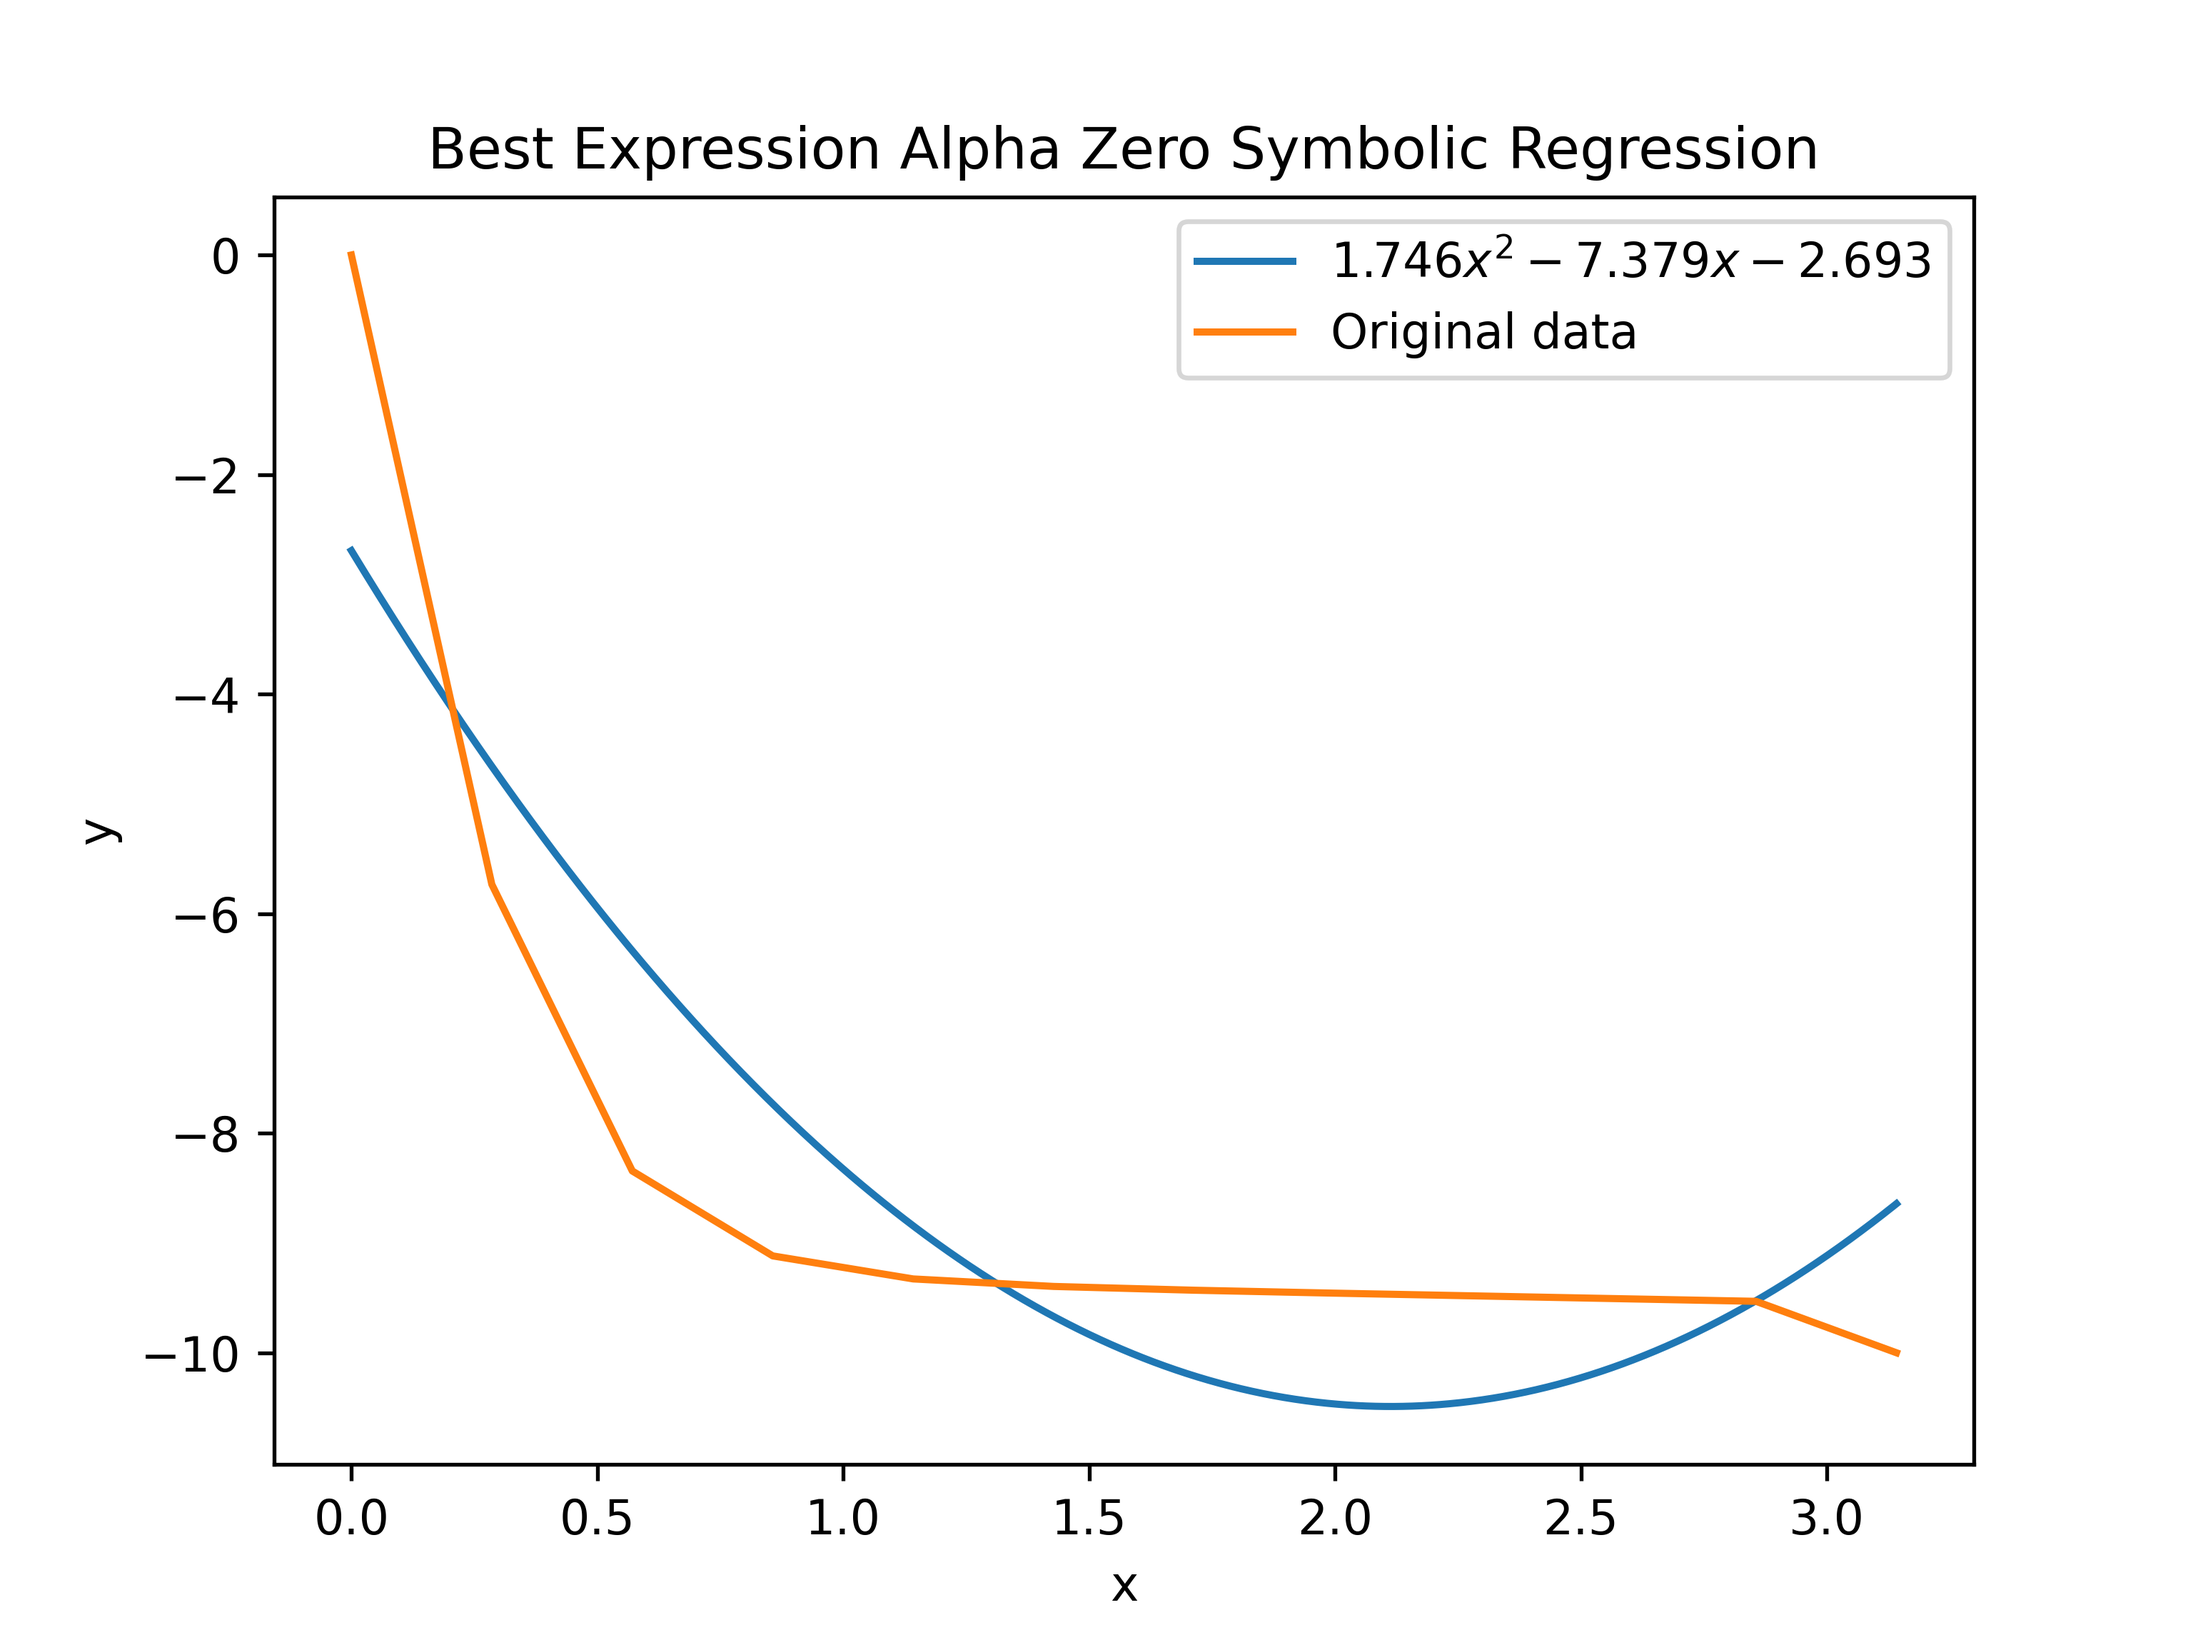
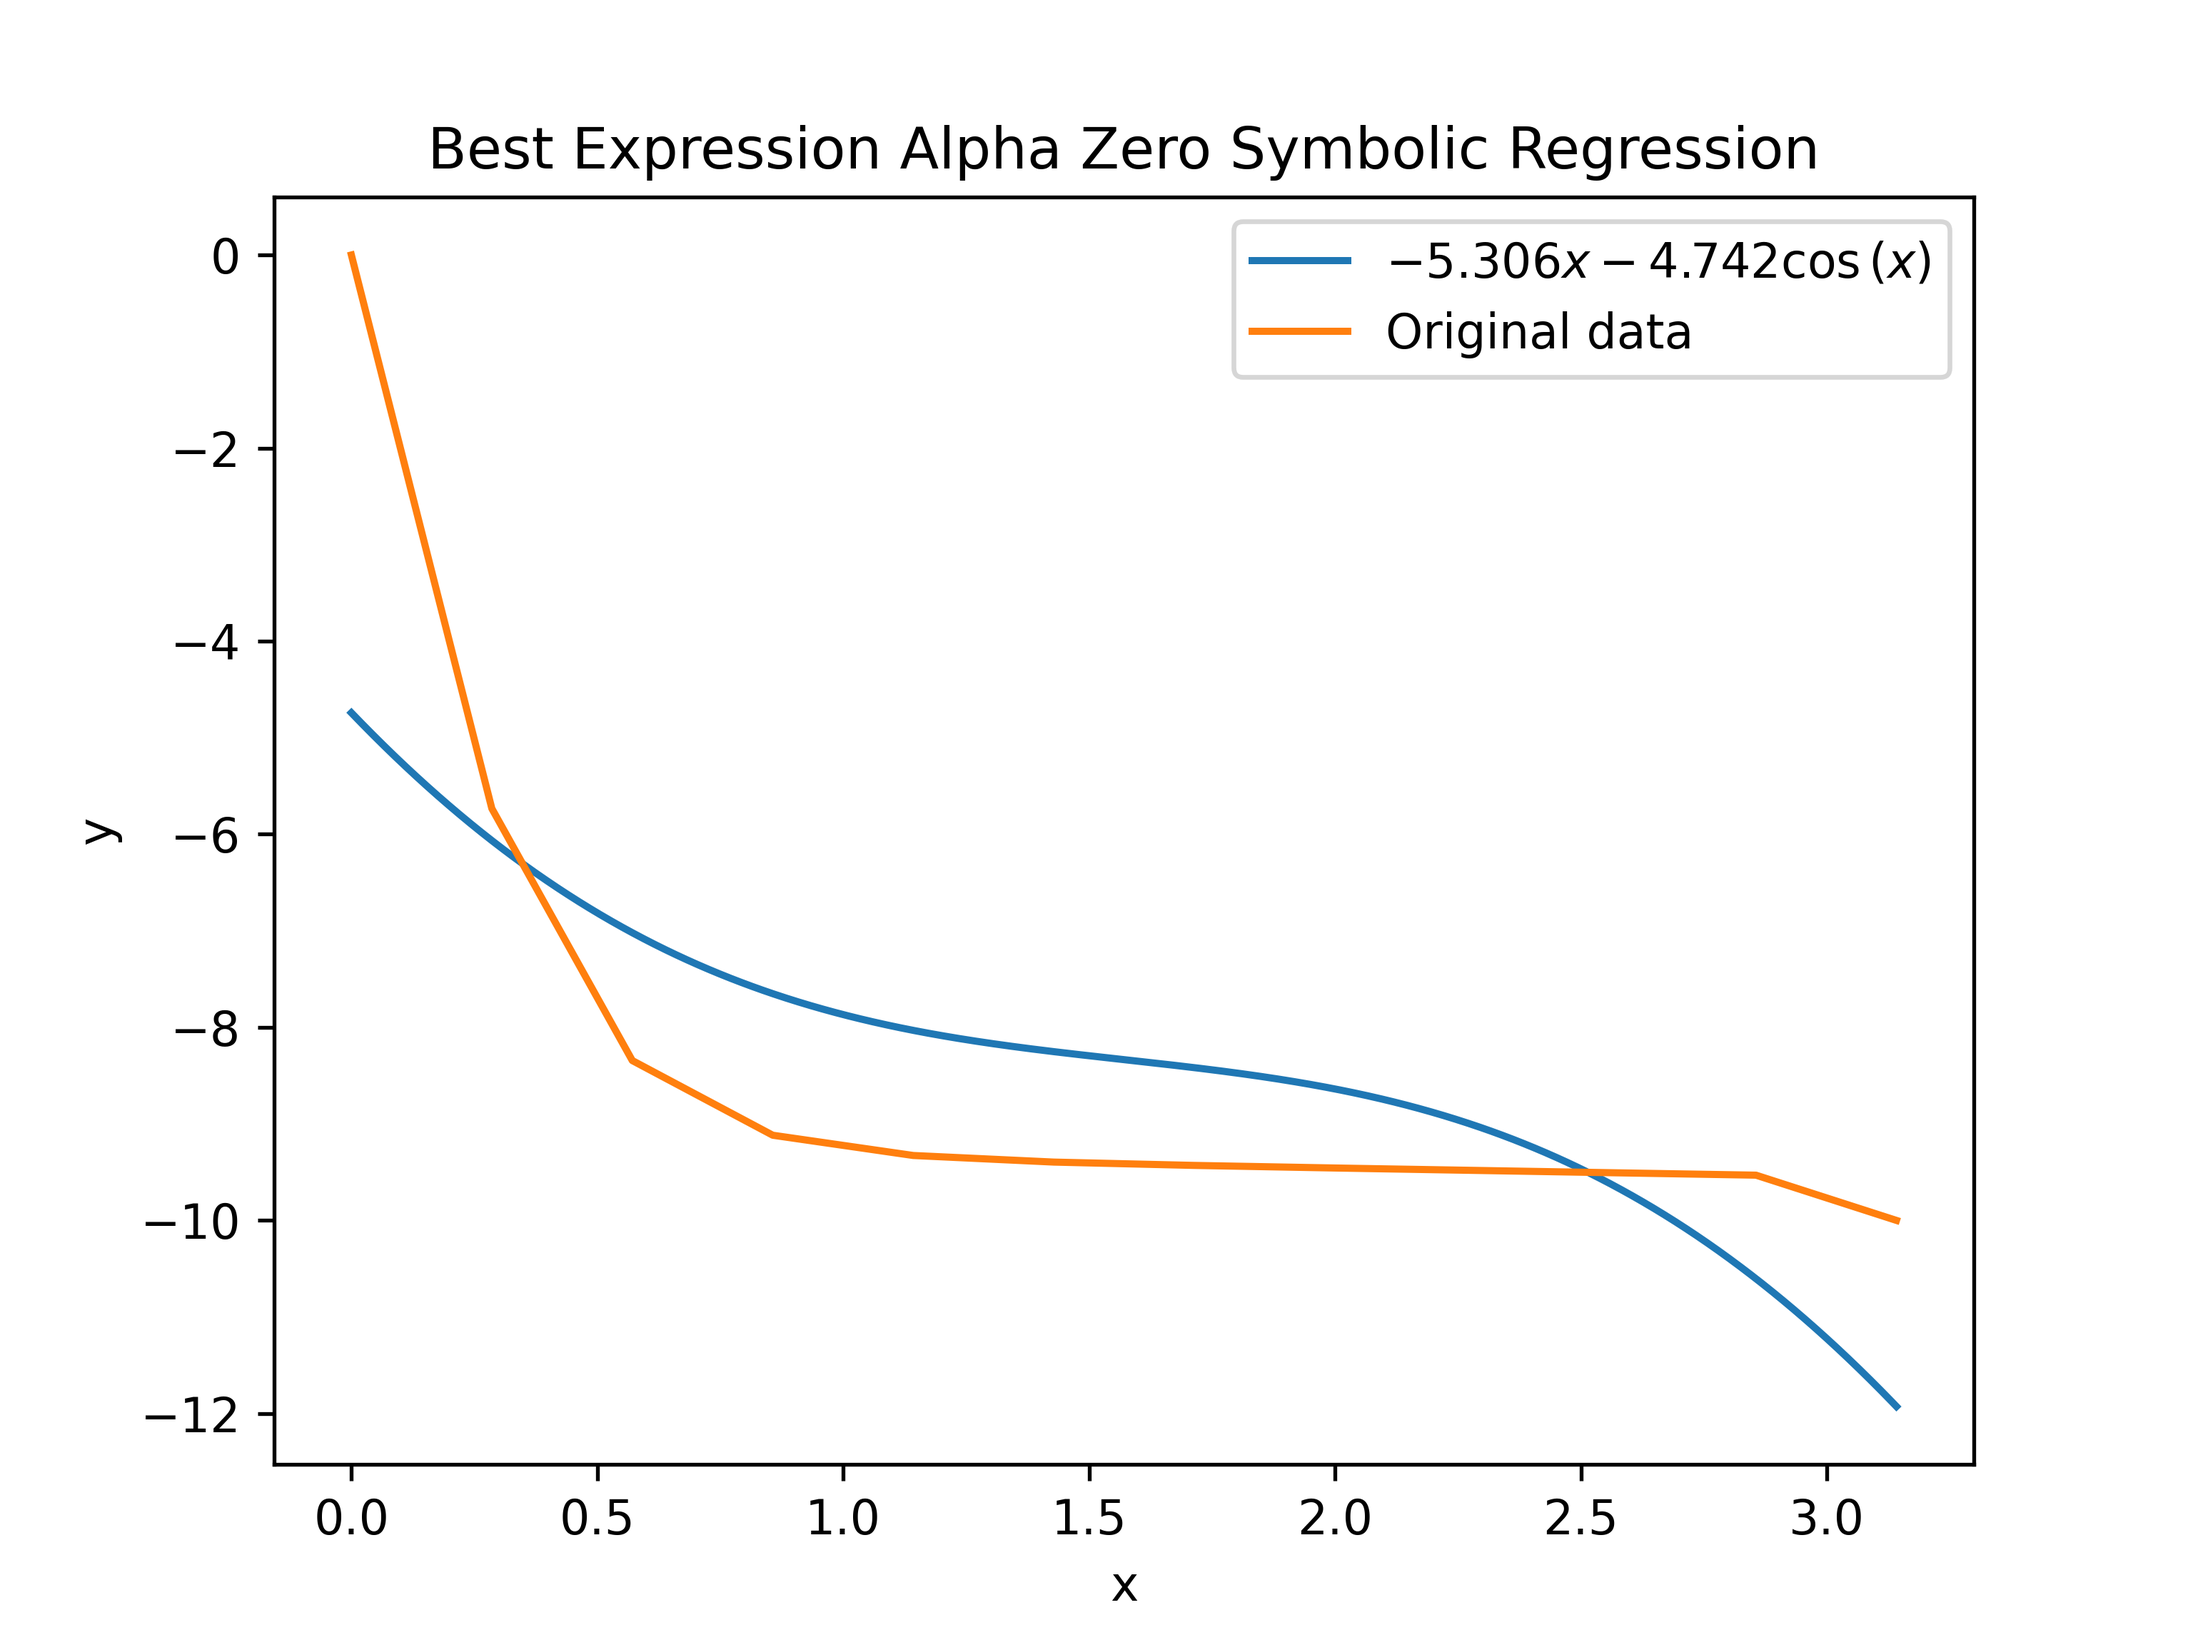
Adding gradient example

diff --git a/symreg/SymRegLogic.py b/symreg/SymRegLogic.py
@@ -17,6 +17,7 @@ Based on the board for the game of Othello by Eric P. Nichols.
 
 from sympy import symbols, Eq, lambdify, latex
 from sympy.parsing.sympy_parser import (parse_expr, standard_transformations, implicit_multiplication_application)
+from sympy.utilities.lambdify import implemented_function
 import numpy as np
 from scipy.optimize import curve_fit
 import math
@@ -31,10 +32,10 @@ class Board():
 
     def __init__(self, n=3):
         "Set up initial board configuration."
-        self.__operators = ['+', '-', '*', 'cos', 'x', 'const']
+        self.__operators = ['+', '-', '*', 'cos', 'x', 'const', 'grad']
         self.init_legal = len(self.__operators)
         self.__operators_float = [sum(ord(i) for i in j) for j in self.__operators] #[43, 45, 42, 325, 120]
-        self.legal_moves_dict = {'+' : ['cos', 'x', 'const'], '-' : ['cos', 'x', 'const'], '*' : ['cos', 'x', 'const'], 'cos' : ['x', 'const'], 'x' : ['+', '-', '*', 'cos', 'const'], 'const': ['+', '-', '*', 'cos', 'x']}
+        self.legal_moves_dict = {'+' : ['cos', 'x', 'const'], '-' : ['cos', 'x', 'const'], '*' : ['cos', 'x', 'const'], 'cos' : ['x', 'const'], 'x' : ['+', '-', '*', 'cos', 'const'], 'const': ['+', '-', '*', 'cos', 'x'], 'grad': ['x']}
         self.__operators_dict = {operator:name for (operator, name) in zip(self.__operators_float, self.__operators)}
         self.__operators_inv_dict = {name:operator for (operator, name) in zip(self.__operators_float, self.__operators)}
         self.__legal_moves_dict = {self.__operators_inv_dict[key]: [self.__operators_inv_dict[i] for i in value] for (key, value) in self.legal_moves_dict.items()}
@@ -55,8 +56,8 @@ class Board():
         moves = set()  # stores the legal moves.
         if 0 not in self.pieces:
             return self.__operators_float
-        if not np.any(self.pieces): #At the beginning, all pieces are 0, so the legal moves are '+', '-', 'cos', 'x', and 'const', but not '*'
-            return [1, 1, 0, 1, 1, 1]
+        if not np.any(self.pieces): #At the beginning, all pieces are 0, so the legal moves are '+', '-', 'cos', 'x', 'const', and 'grad', but not '*'
+            return [1, 1, 0, 1, 1, 1, 1]
         
         curr_move = np.where(self.pieces==0)[0][0]
         
@@ -76,24 +77,25 @@ class Board():
         if 0 in self.pieces: #Expression list not complete
             return -1
         else:
-            
+            grad = implemented_function('grad', lambda x: np.gradient(x))
             expression_str = ' '.join([self.__operators_dict[i] for i in self.pieces])
             num_consts = expression_str.count("const")
             x = symbols('x')
             transformations = (standard_transformations + (implicit_multiplication_application,))
             X, Y = Board.data[:, 0], Board.data[:, 1]
-            print(f"X.shape = {X.shape}")
             
             if num_consts:
                 y = symbols(f'y(:{num_consts})')
                 consts = [f"y{i}" for i in range(num_consts)]
+                temp_dict = {key:value for (key,value) in zip(consts, y)}
+                temp_dict.update({"grad": grad})
                 for i in range(num_consts):
                     expression_str = expression_str.replace("const", f"y{i}", 1)
                 
                 first = False
                 while expression_str:
                     try:
-                        parsed_expr = parse_expr(expression_str, transformations=transformations, local_dict = {key:value for (key,value) in zip(consts, y)})
+                        parsed_expr = parse_expr(expression_str, transformations=transformations, local_dict = temp_dict)
                         break
                     except:
                         if not first:
@@ -124,9 +126,10 @@ class Board():
                 
             else:
                 first = False
+                temp_dict = {"grad": grad}
                 while expression_str:
                     try:
-                        parsed_expr = parse_expr(expression_str, transformations=transformations)
+                        parsed_expr = parse_expr(expression_str, transformations=transformations, local_dict = temp_dict)
                         break
                     except:
                         if not first:
@@ -149,8 +152,7 @@ class Board():
 
             if loss < Board.best_loss:
                 try:
-                    
-                    Board.best_expression = parse_expr(expression_str, transformations=transformations)
+                    Board.best_expression = parse_expr(new_expression, transformations=transformations, local_dict = temp_dict)
                 except:
                     print("faulty expression_str =",expression_str)
                     try:
@@ -159,7 +161,7 @@ class Board():
                         floats_found = re.findall(float_pattern, expression_str)
                         new_expression = re.sub(float_pattern, r'(\g<0>)', expression_str)
                         new_expression = new_expression.replace('x','(x)')
-                        Board.best_expression = parse_expr(new_expression, transformations=transformations)
+                        Board.best_expression = parse_expr(new_expression, transformations=transformations, local_dict = temp_dict)
                         print("fixed expression_str =", Board.best_expression)
                     except:
                         print("faulty new_expression_str =", new_expression)

diff --git a/grad_test.py b/grad_test.py
@@ -19,9 +19,9 @@ args = dotdict({
     'numEps': 10000,              # Number of complete self-play games to simulate during a new iteration.
     'tempThreshold': 0,        
     'maxlenOfQueue': 200000,    # Number of game examples to train the neural networks.
-    'numMCTSSims': 100,          # Number of games moves for MCTS to simulate.
+    'numMCTSSims': 10000,          # Number of games moves for MCTS to simulate.
     'arenaCompare': 1,         # Number of games to play during arena play to determine if new net will be accepted.
-    'cpuct': 1000,
+    'cpuct': 1,
 
     'checkpoint': './temp/',
     'load_model': False,
@@ -49,7 +49,12 @@ def main():
 
         log.info('Loading the Coach...')
         
-        Board.data = np.loadtxt("symreg/test_data.txt")
+        X_data = (np.linspace(1,10,1000)**2).reshape((1000,1))
+        Y_data = np.gradient(X_data.flatten()).reshape((len(X_data),1))
+        
+#        Board.data = np.loadtxt("symreg/test_data.txt")
+        Board.data = np.hstack((X_data,Y_data))
+
         c = Coach(g, nnet, args) #(3.)
 
         if args.load_model:
@@ -66,17 +71,18 @@ def main():
             with open("best_expression.txt", "w") as f:
                 f.write(f"{Board.best_expression}\n")
                 f.write(f"{Board.best_loss}\n")
-                x_vals = np.linspace(Board.data[:,0][0], Board.data[:,0][-1], 1000)
+                x_vals = X_data
                 x = sp.symbols('x')
                 best_func = sp.lambdify(x, Board.best_expression)
-                y_vals = best_func(x_vals)
+                y_vals = best_func(x_vals.flatten())
+                
                 plt.plot(x_vals, y_vals, label = "$"+sp.latex(Board.best_expression)+"$")
                 plt.plot(Board.data[:,0], Board.data[:,1], label = "Original data")
                 plt.xlabel("x")
                 plt.ylabel("y")
                 plt.legend()
-                plt.title("Best Expression Alpha Zero Symbolic Regression")
-                plt.savefig("Best_Expression.png", dpi = 5*96)
+                plt.title("Best Expression Gradient Test")
+                plt.savefig("Grad_Test_Best_Expression.png", dpi = 5*96)
                 print("Saved!")
                 
                 
